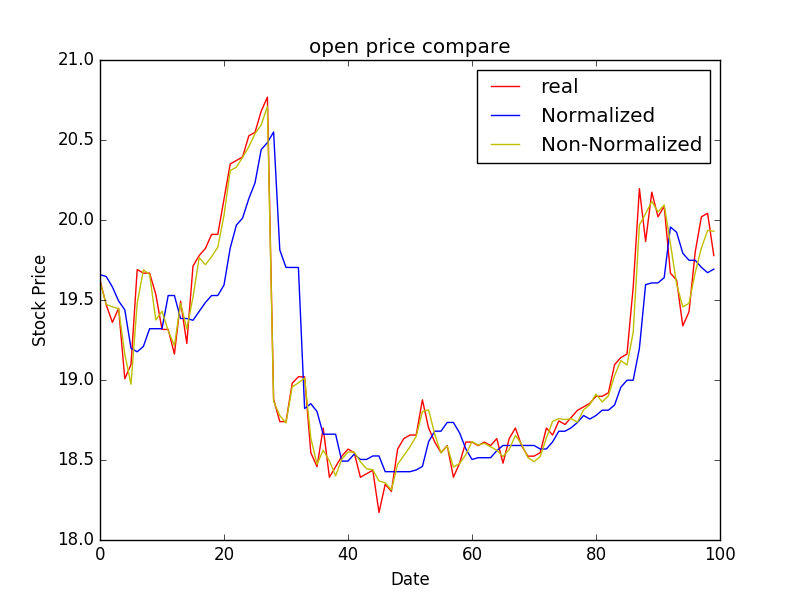
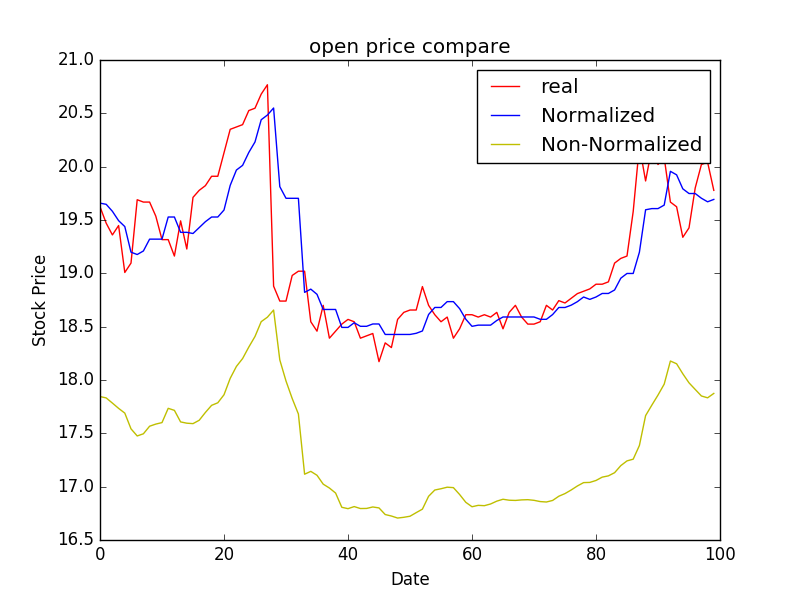
Update report Add some page Add some data info

diff --git a/Interim_report.tex b/Interim_report.tex
@@ -62,13 +62,14 @@
 		\caption{Environment of my Cluster}
 		\label{fig:environment}
 	\end{figure} 
-	\subsection{Financial Data Collect}
+	\subsection{Financial Data Collect and Preliminary model}
 	The daily stock data is collected from Yahoo Finance!. For further extension (use artificial neural network\cite{nayak2014impact}), the trained price will be first normalized based on the equation~\ref{eq:normalize}
 	\begin{equation}
 		\label{eq:normalize}
 		price = \frac{2\times price - (Max_{price}+Min_{Price})}{Max_Price-Min_Price}
 	\end{equation}
-	Compare of Normalize and Non-Normalize can be found in figure~\ref{fig:non_vs_nor} and figure
+	In this study, I choose mean absolute deviation(MAD, equation~\ref{eq:MAD}), mean absolute percentage error(MAPE, equation~\ref{eq:MAPE}) and mean squared error (MSE, equation~\ref{eq:MSE}) as prediction criteria.
+	Compare of Normalize and Non-Normalize can be found in figure~\ref{fig:non_vs_nor} and figure~\ref{fig:mse_mad}. I use Linear Regression with SGD model, and the input values are 5 days average close and open price, highest and lowest price during the five days. 
 	\begin{figure}[ht]
 		\centering
 		\subfigure[Prediction of HK \& CHINA GAS (0003.HK)]{
@@ -86,13 +87,36 @@
 	\end{figure}
 	\begin{figure}[ht]
 		\centering
-		\includegraphics[width=0.8\textwidth]{imagefile}
+		\subfigure[MSE Compare]{
+			\centering
+			\includegraphics[width=.4\linewidth]{MSE}
+			\label{fig:MSE}
+		}
+		\subfigure[MAD compare]{
+			\centering
+			\includegraphics[width=.4\linewidth]{MAD}
+			\label{fig:MAD}
+		}
+		\subfigure[MAPE compare]{
+			\centering
+			\includegraphics[width=.4\linewidth]{MAPE}
+			\label{fig:MAPE}
+		}
 		\caption{Compare between Normalized and Non-Normalized data 2}
 		\label{fig:mse_mad}
 	\end{figure}
+	\begin{gather}
+	\label{eq:MAD}
+	MAD = \frac{1}{|ValidationSet|}\sum|price_{forecast}-price_{real}|\\
+	\label{eq:MAPE}
+	MAPE = \frac{1}{|ValidationSet|}\sum|\frac{price_{forecast}-price_{real}}{price_{real}}|\\
+	\label{eq:MSE}
+	MSE = \frac{1}{|ValidationSet|}\sum(price_{forecast}-price_{real})^2
+	\end{gather}
+	From above results we can find that Normalized data is more reliable than Non-normalized prediction.
 	\subsection{Dissertation Website}
-	\subsection{Basic Strategy}
-	\subsection{Data Normalization}
+	Thanks to \cite{1_miller_2016}, where I download the template from. Current version so Dissertation Website as figure~
 	\section{Future Works}
+	Based on the above works, my next
 	\bibliography{Interim_report}
 \end{document}
